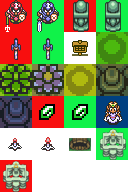
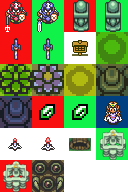
Eyes. Code Readability. Link and Minions layer blit
Added eyes entities. Maybe they need some timing adjust.
Improved aesthetics manager code readability.
Link and Minions now blit at their y position.

Changed region(s): [[0.25, 0.8125, 0.5, 1.0]]

diff --git a/Motor2D/AestheticsManager.cpp b/Motor2D/AestheticsManager.cpp
@@ -3,6 +3,7 @@
 #include "Trees.h"
 #include "j1App.h"
 #include "j1Entity.h"
+#include "Eyes.h"
 
 AestheticsManager::AestheticsManager()
 {
@@ -14,8 +15,11 @@ AestheticsManager::~AestheticsManager()
 
 void AestheticsManager::Start()
 {
+	//Trunk
 	trunk_entity = App->entity->CreateEntity(trunk, App->map->GetTrunkPosition()); 
-	
+	// -----
+
+	//Trees
 	App->map->GetTreesPosition(trees_nodes); 
 	
 	int z = 0; 
@@ -41,14 +45,36 @@ void AestheticsManager::Start()
 
 		z++; 	
 	}
+	// -----
 
+	//Eyes
+	std::vector<iPoint> eyes_positions = App->map->GetEyesPositions();
 
-
+	for (std::vector<iPoint>::iterator it = eyes_positions.begin(); it != eyes_positions.end(); ++it)
+	{
+		eyes.push_back((Eyes*)App->entity->CreateEntity(entity_name::eyes, *it));
+	}
+	// -----
 
 }
 
 void AestheticsManager::CleanUp()
 {
+	//Clear Trees
+	for (std::vector<Tree*>::iterator it = trees_entity.begin(); it != trees_entity.end();)
+	{
+		App->entity->DeleteEntity(*it);
+		it = trees_entity.erase(it);
+	}
+	// -----
+
+	//Clear Eyes
+	for (std::vector<Eyes*>::iterator it = eyes.begin(); it != eyes.end(); ++it)
+	{
+		App->entity->DeleteEntity(*it);
+		it = eyes.erase(it);
+	}
+	// -----
 }
 
 

diff --git a/Motor2D/Minion.cpp b/Motor2D/Minion.cpp
@@ -129,9 +129,9 @@ bool Minion::Draw(float dt)
 	bool ret = true;
 
 	if (flip)
-		App->view->LayerBlit(2, game_object->GetTexture(), { game_object->GetPos().x - draw_offset.x - 45, game_object->GetPos().y - draw_offset.y - 35 }, game_object->GetCurrentAnimationRect(dt), 0, -1.0f, true, SDL_FLIP_HORIZONTAL);
+		App->view->LayerBlit(GetPos().y, game_object->GetTexture(), { game_object->GetPos().x - draw_offset.x - 45, game_object->GetPos().y - draw_offset.y - 35 }, game_object->GetCurrentAnimationRect(dt), 0, -1.0f, true, SDL_FLIP_HORIZONTAL);
 	else
-		App->view->LayerBlit(2, game_object->GetTexture(), { game_object->GetPos().x - draw_offset.x - 17, game_object->GetPos().y - draw_offset.y - 35 }, game_object->GetCurrentAnimationRect(dt), 0, -1.0f, true, SDL_FLIP_NONE);
+		App->view->LayerBlit(GetPos().y, game_object->GetTexture(), { game_object->GetPos().x - draw_offset.x - 17, game_object->GetPos().y - draw_offset.y - 35 }, game_object->GetCurrentAnimationRect(dt), 0, -1.0f, true, SDL_FLIP_NONE);
 
 	return ret;
 }

diff --git a/Motor2D/Link.cpp b/Motor2D/Link.cpp
@@ -205,9 +205,9 @@ bool Link::Draw(float dt)
 	
 	// Blit
 	if(flip)
-		App->view->LayerBlit(blit_layer, game_object->GetTexture(), { game_object->GetPos().x - draw_offset.x - 3, game_object->GetPos().y - draw_offset.y}, game_object->GetCurrentAnimationRect(dt), 0, -1.0f, true, SDL_FLIP_HORIZONTAL);
+		App->view->LayerBlit(GetPos().y, game_object->GetTexture(), { game_object->GetPos().x - draw_offset.x - 3, game_object->GetPos().y - draw_offset.y}, game_object->GetCurrentAnimationRect(dt), 0, -1.0f, true, SDL_FLIP_HORIZONTAL);
 	else
-		App->view->LayerBlit(blit_layer, game_object->GetTexture(), { game_object->GetPos().x - draw_offset.x, game_object->GetPos().y - draw_offset.y}, game_object->GetCurrentAnimationRect(dt), 0, -1.0f, true, SDL_FLIP_NONE);
+		App->view->LayerBlit(GetPos().y, game_object->GetTexture(), { game_object->GetPos().x - draw_offset.x, game_object->GetPos().y - draw_offset.y}, game_object->GetCurrentAnimationRect(dt), 0, -1.0f, true, SDL_FLIP_NONE);
 
 
 	// -------------

diff --git a/Motor2D/Eyes.cpp b/Motor2D/Eyes.cpp
@@ -1,0 +1,33 @@
+#include "Eyes.h"
+#include "GameObject.h"
+#include "j1Entity.h"
+#include "Scene.h"
+#include "j1Scene.h"
+#include "MainScene.h"
+#include "j1Viewports.h"
+
+Eyes::Eyes(iPoint pos)
+{
+	game_object = new GameObject(iPoint(pos.x, pos.y), iPoint(121, 145), App->cf->CATEGORY_NONCOLLISIONABLE, App->cf->MASK_NONCOLLISIONABLE, pbody_type::p_t_npc, 0);
+
+	pugi::xml_document doc;
+	App->LoadXML("eyes.xml", doc);
+	game_object->SetTexture(game_object->LoadAnimationsFromXML(doc, "animations"));
+	App->UnloadXML(doc);
+}
+
+Eyes::~Eyes()
+{
+}
+
+bool Eyes::Start()
+{
+	game_object->SetAnimation("idle");
+	return true;
+}
+
+bool Eyes::Draw(float dt)
+{
+	App->view->LayerBlit(3, game_object->GetTexture(), { game_object->GetPos().x, game_object->GetPos().y }, game_object->GetCurrentAnimationRect(dt), 0, -1.0f, true, SDL_FLIP_NONE);
+	return true;
+}

diff --git a/Motor2D/j1Map.cpp b/Motor2D/j1Map.cpp
@@ -1148,3 +1148,43 @@ iPoint j1Map::GetBasePosition(uint team) const
 
 	return ret;
 }
+
+std::vector<iPoint> j1Map::GetEyesPositions() const
+{
+	std::vector<iPoint> ret;
+
+	std::list<MapLayer*>::const_iterator item;
+	item = data.layers.begin();
+
+	for (; item != data.layers.end(); item++)
+	{
+		MapLayer* layer = *item;
+
+		if (layer->properties.Get("Entities", 0) == 0)
+			continue;
+
+		for (int y = 0; y < data.height; ++y)
+		{
+			for (int x = 0; x < data.width; ++x)
+			{
+				int id = layer->Get(x, y);
+				if (id != 0)
+				{
+					TileSet* tileset = (id > 0) ? GetTilesetFromTileId(id) : NULL;
+					if (tileset != NULL)
+					{
+						int relative_id = id - tileset->firstgid;
+
+						if (relative_id == 21)
+						{
+							ret.push_back(MapToWorld(x, y));
+						}
+
+					}
+				}
+			}
+		}
+	}
+
+	return ret;
+}

diff --git a/Motor2D/Zelda.cpp b/Motor2D/Zelda.cpp
@@ -84,7 +84,7 @@ bool Zelda::Draw(float dt)
 	App->view->LayerBlit(game_object->GetPos().y, game_object->GetTexture(), { game_object->GetPos().x - draw_offset.x - 22, game_object->GetPos().y - draw_offset.y - 24 }, game_object->GetCurrentAnimationRect(dt), 0, -1.0f, true, SDL_FLIP_NONE);
 	
 	if(active)
-		App->view->LayerBlit(2, game_object->GetTexture(), { game_object->GetPos().x - radius, game_object->GetPos().y - radius}, area_image, 0, -1.0f, true, SDL_FLIP_NONE);
+		App->view->LayerBlit(4, game_object->GetTexture(), { game_object->GetPos().x - radius, game_object->GetPos().y - radius}, area_image, 0, -1.0f, true, SDL_FLIP_NONE);
 
 	return true;
 }

diff --git a/Motor2D/AestheticsManager.h b/Motor2D/AestheticsManager.h
@@ -8,6 +8,7 @@
 
 class Entity;
 class Tree;
+class Eyes;
 
 enum tree_color
 {
@@ -33,11 +34,16 @@ public:
 	void CleanUp(); 
 
 private:
-	
-	Entity*						trunk_entity = nullptr; 
+	//Trunk
+	Entity*					trunk_entity = nullptr; 
+
+	//Trees
 	std::vector<Tree*>		trees_entity;
 
-	std::vector<TreeNode*>		trees_nodes; 
+	std::vector<TreeNode*>	trees_nodes; 
+
+	//Eyes
+	std::vector<Eyes*>		eyes;
 
 };
 

diff --git a/Motor2D/j1Entity.cpp b/Motor2D/j1Entity.cpp
@@ -14,6 +14,7 @@
 #include "j1Timer.h"
 #include "Zelda.h"
 #include "Base.h"
+#include "Eyes.h"
 
 
 j1Entity::j1Entity()
@@ -197,6 +198,9 @@ Entity* j1Entity::CreateEntity(entity_name entity, iPoint pos)
 		break;
 	case tree:
 		ret = new Tree(pos);
+		break;
+	case eyes:
+		ret = new Eyes(pos);
 		break;
 	default:
 		break;

diff --git a/Motor2D/Eyes.h b/Motor2D/Eyes.h
@@ -1,0 +1,28 @@
+#ifndef _EYES_H_
+#define _EYES_H_
+
+#include "Entity.h"
+
+class Eyes : public Entity
+{
+public:
+	Eyes(iPoint pos);
+	~Eyes();
+
+	// Start variables
+	bool Start();
+
+	// Draw and change animations
+	bool Draw(float dt);
+
+private:
+
+public:
+
+private:
+
+};
+
+
+#endif // !_EYES_H_
+

diff --git a/Motor2D/j1Entity.h b/Motor2D/j1Entity.h
@@ -19,7 +19,7 @@ enum class pbody_type;
 
 enum entity_name
 {
-	e_n_null, link, zelda, minion, tower, ganon, navi, trunk, base, tree
+	e_n_null, link, zelda, minion, tower, ganon, navi, trunk, base, tree, eyes
 };
 
 class slow

diff --git a/Motor2D/j1Map.h b/Motor2D/j1Map.h
@@ -160,6 +160,9 @@ public:
 	//Return base position in world cordinates
 	iPoint GetBasePosition(uint team) const;
 
+	// Return eyes coordinates
+	std::vector<iPoint> GetEyesPositions()const;
+
 private:
 
 	bool LoadMap();

diff --git a/Motor2D/MainScene.h b/Motor2D/MainScene.h
@@ -95,9 +95,6 @@ private:
 	UI_Image*			minimap_icon_4 = nullptr;
 	vector<UI_Image*>   habilities_4;
 
-	// Trunk
-	Trunk*				map_trunk = nullptr; 
-
 	vector<PhysBody*>	map_collisions;
 
 	j1Timer				game_timer;
